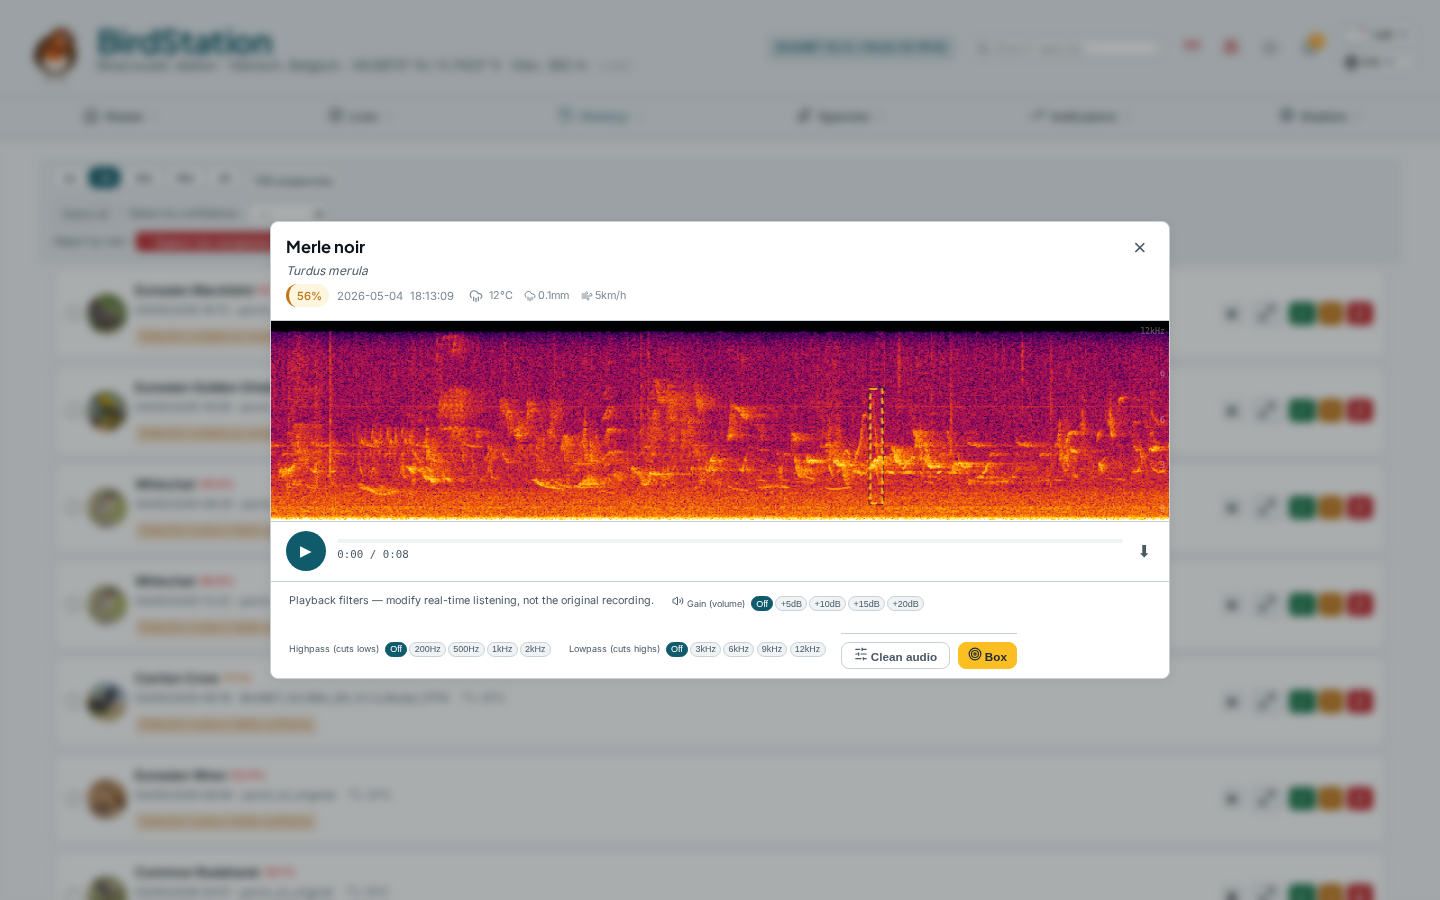
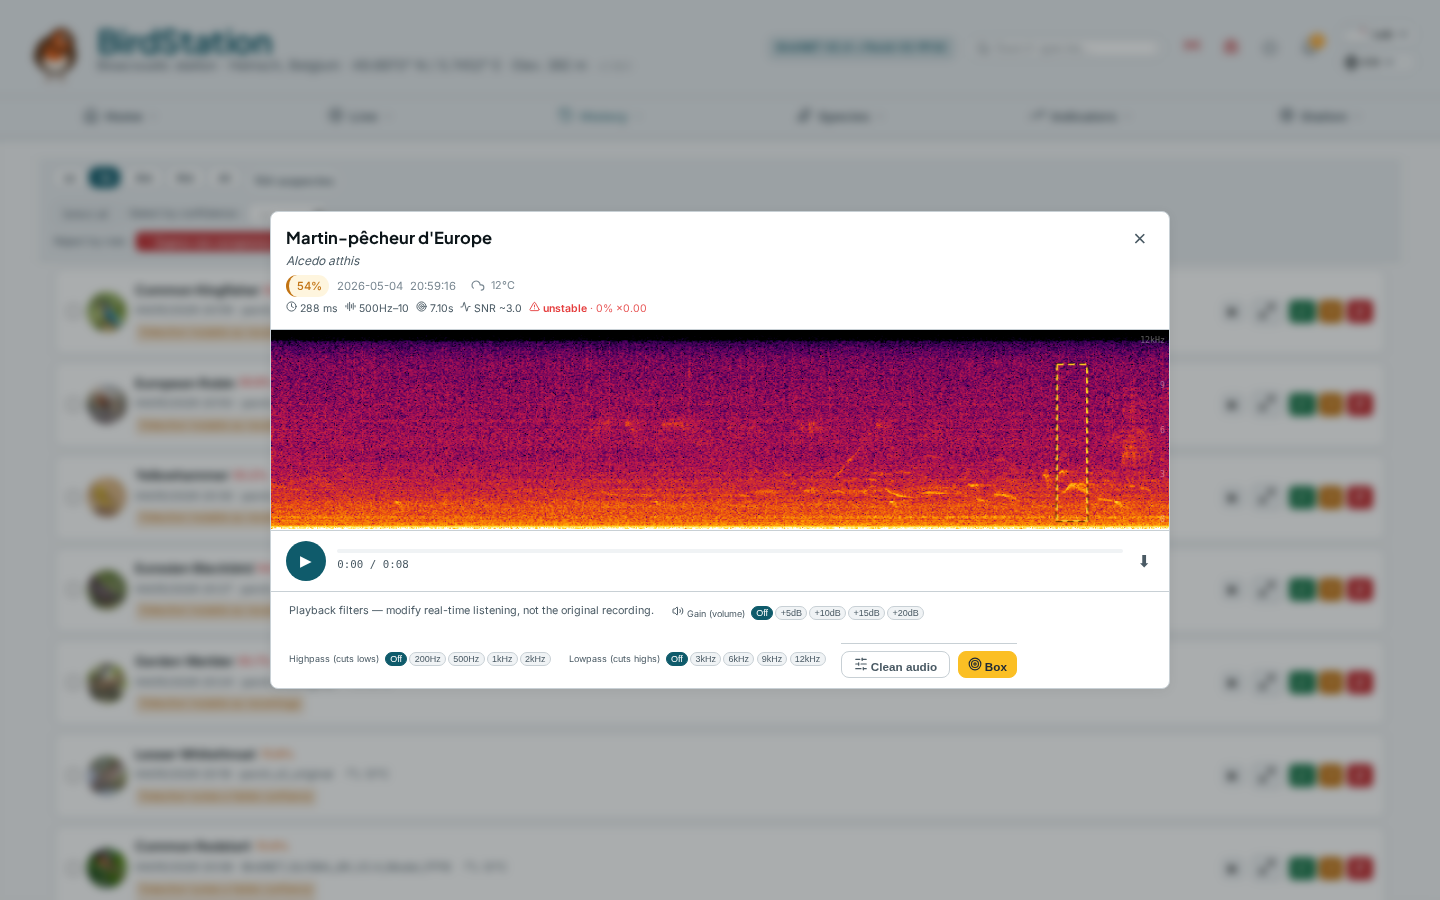
feat(refinement): bbox info bar in modal + stability badges on review cards (1.50.2)
- Spectro modal: chip strip with duration/band/peak/SNR + truncated/stable/
  unstable/inconclusive badges, sourced from a single bbox+stability fetch.
- review.html: orange "truncated" + green "stable" / grey "inconclusive"
  chips next to existing reasons row.
- /api/detections/bbox LEFT JOINs detection_stability_v1; /api/flagged-
  detections rows gain truncated + stability_status fields.
- i18n strings + tooltips fr/en/de/nl.

diff --git a/public/js/bird-spectro-modal.js b/public/js/bird-spectro-modal.js
@@ -57,6 +57,19 @@
       // Switching off re-renders the spectro without the bbox; switching on
       // re-renders, then re-paints the bbox over the fresh pixels.
       const bboxEnabled = ref(U.getBboxOverlayEnabled());
+      // bboxData holds the fetched bbox+stability row (single fetch per modal
+      // open) — used both to paint the overlay and to render the info bar.
+      const bboxData = ref(null);
+
+      function paintBbox() {
+        if (!canvas.value) return;
+        if (bboxEnabled.value && bboxData.value) {
+          U.attachBboxOverlay(canvas.value, bboxData.value,
+            { duration: audioBuf?.duration, maxHz: 12000 });
+        } else {
+          U.attachBboxOverlay(canvas.value, null);
+        }
+      }
       function toggleBbox() {
         bboxEnabled.value = !bboxEnabled.value;
         U.setBboxOverlayEnabled(bboxEnabled.value);
@@ -64,12 +77,35 @@
         // Re-render the current pcmData (which is already cleaned if cleanMode is on)
         // then re-paint or skip the bbox.
         U.renderSpectrogram(pcmData, sampleRate, canvas.value, { fftSize: 1024, maxHz: 12000 });
-        if (bboxEnabled.value) {
-          U.showBboxForFile(canvas.value, modal.fileName, { duration: audioBuf?.duration, maxHz: 12000 });
-        } else {
-          U.attachBboxOverlay(canvas.value, null);
-        }
+        paintBbox();
       }
+
+      // Formatted strings for the info bar — null when no bbox row exists.
+      const bboxMeta = computed(() => {
+        const b = bboxData.value;
+        if (!b) return null;
+        const durMs = Math.round((b.t_max_s - b.t_min_s) * 1000);
+        const fmtKHz = (hz) => hz >= 1000 ? (hz / 1000).toFixed(hz >= 10000 ? 0 : 1) : (hz + 'Hz');
+        const fLo = fmtKHz(b.f_min_hz);
+        const fHi = fmtKHz(b.f_max_hz);
+        const band = (typeof fLo === 'string' && fLo.endsWith('Hz')) || (typeof fHi === 'string' && fHi.endsWith('Hz'))
+          ? `${fLo}–${fHi}`
+          : `${fLo}–${fHi} kHz`;
+        const snr = (b.snr_estimate != null && isFinite(b.snr_estimate))
+          ? b.snr_estimate.toFixed(1) : null;
+        const peak = (b.peak_t_s != null && isFinite(b.peak_t_s))
+          ? b.peak_t_s.toFixed(2) + 's' : null;
+        const stab = b.stability_status || null;
+        const recConf = (b.recentered_confidence != null)
+          ? Math.round(b.recentered_confidence * 100) + '%' : null;
+        const ratio = (b.ratio_to_original != null)
+          ? '×' + b.ratio_to_original.toFixed(2) : null;
+        return {
+          durMs, band, snr, peak,
+          truncated: !!b.truncated,
+          stability: stab, recConf, ratio,
+        };
+      });
 
       // Loop selection
       const loopStart = ref(null); // 0-1 fraction
@@ -144,10 +180,12 @@
           _rawPcm = pcmData;
           _rawSr = sampleRate;
           _rawAudioBuf = audioBuf;
-          // Render spectrogram
+          // Render spectrogram + fetch bbox/stability once — the same row is
+          // reused for both the overlay paint and the info bar.
           if (canvas.value) {
             U.renderSpectrogram(pcmData, sampleRate, canvas.value, { fftSize: 1024, maxHz: 12000 });
-            U.showBboxForFile(canvas.value, modal.fileName, { duration: audioBuf.duration, maxHz: 12000 });
+            bboxData.value = await U.fetchBbox(modal.fileName);
+            paintBbox();
           }
         } catch (e) {
           console.warn('SpectroModal: load error', e);
@@ -343,6 +381,7 @@
         pausedAt = 0;
         filters.gain = 0; filters.highpass = 0; filters.lowpass = 0;
         loopStart.value = null; loopEnd.value = null; loopActive.value = false;
+        bboxData.value = null;
         cancelAnimationFrame(rafId);
       }
 
@@ -359,7 +398,7 @@
           cleanMode.value = false;
           if (_rawPcm && canvas.value) {
             U.renderSpectrogram(_rawPcm, _rawSr, canvas.value, { fftSize: 1024, maxHz: 12000 });
-            U.showBboxForFile(canvas.value, modal.fileName, { duration: audioBuf?.duration, maxHz: 12000 });
+            paintBbox();
           }
           const wasPlaying = isPlaying.value;
           if (wasPlaying) stopPlay();
@@ -379,7 +418,7 @@
           const cleaned = U.cleanAudioPipeline(_rawPcm, _rawSr, cleanStrength.value);
           if (canvas.value) {
             U.renderSpectrogram(cleaned, _rawSr, canvas.value, { fftSize: 1024, maxHz: 12000 });
-            U.showBboxForFile(canvas.value, modal.fileName, { duration: audioBuf?.duration, maxHz: 12000 });
+            paintBbox();
           }
           // Build a new AudioBuffer so playback uses the cleaned signal.
           const tmpCtx = new (window.AudioContext || window.webkitAudioContext)();
@@ -437,7 +476,7 @@
         loopStart, loopEnd, loopActive,
         weather, wmoIcon, wmoLabel,
         cleanMode, cleanStrength, processingClean,
-        bboxEnabled, toggleBbox,
+        bboxEnabled, toggleBbox, bboxMeta,
         togglePlay, seek, setFilter, close, t,
         onCanvasMousedown, onCanvasMousemove, onCanvasMouseup, clearLoop,
         toggleClean, reapplyClean
@@ -465,6 +504,33 @@
             <span v-if="weather.wind_kmh != null && weather.wind_kmh >= 5" class="weather-wind">
               <bird-icon name="wind" :size="12"></bird-icon>{{Math.round(weather.wind_kmh)}}km/h
             </span>
+          </span>
+        </div>
+        <!-- Detection Refinement info bar (Phase 1B + Phase 2) — visible
+             only when a bbox row exists for this clip. -->
+        <div v-if="bboxMeta" class="spectro-modal-bboxinfo"
+             style="display:flex;flex-wrap:wrap;gap:.45rem;margin-top:.25rem;font-size:.7rem;color:var(--text-muted);align-items:center;line-height:1.4;">
+          <span :title="t('bbox_info_duration_tip')"><bird-icon name="clock" :size="11"></bird-icon> {{bboxMeta.durMs}} ms</span>
+          <span :title="t('bbox_info_band_tip')"><bird-icon name="audio-lines" :size="11"></bird-icon> {{bboxMeta.band}}</span>
+          <span v-if="bboxMeta.peak" :title="t('bbox_info_peak_tip')"><bird-icon name="target" :size="11"></bird-icon> {{bboxMeta.peak}}</span>
+          <span v-if="bboxMeta.snr" :title="t('bbox_info_snr_tip')"><bird-icon name="activity" :size="11"></bird-icon> SNR ~{{bboxMeta.snr}}</span>
+          <span v-if="bboxMeta.truncated" :title="t('bbox_info_truncated_tip')"
+                style="color:#dd6b20;font-weight:600;">
+            <bird-icon name="alert-circle" :size="11"></bird-icon> {{t('bbox_info_truncated')}}
+          </span>
+          <span v-if="bboxMeta.stability === 'stable'" :title="t('bbox_info_stable_tip')"
+                style="color:var(--success,#16a34a);font-weight:600;">
+            <bird-icon name="check-circle" :size="11"></bird-icon>
+            {{t('bbox_info_stable')}}<span v-if="bboxMeta.recConf" style="font-weight:400;opacity:.85;"> · {{bboxMeta.recConf}} {{bboxMeta.ratio}}</span>
+          </span>
+          <span v-else-if="bboxMeta.stability === 'unstable'" :title="t('bbox_info_unstable_tip')"
+                style="color:#e53e3e;font-weight:600;">
+            <bird-icon name="alert-triangle" :size="11"></bird-icon>
+            {{t('bbox_info_unstable')}}<span v-if="bboxMeta.recConf" style="font-weight:400;opacity:.85;"> · {{bboxMeta.recConf}} {{bboxMeta.ratio}}</span>
+          </span>
+          <span v-else-if="bboxMeta.stability === 'inconclusive'" :title="t('bbox_info_inconclusive_tip')"
+                style="color:#7a8a9e;">
+            <bird-icon name="help-circle" :size="11"></bird-icon> {{t('bbox_info_inconclusive')}}
           </span>
         </div>
       </div>

diff --git a/server/routes/refinement.js b/server/routes/refinement.js
@@ -1,13 +1,15 @@
 'use strict';
 /**
  * Refinement routes — expose les bbox pré-calculés (Detection Refinement
- * Module, Phase 1A). Lecture seule. La table `detection_bbox_v1` est
- * peuplée hors-ligne par `scripts/refinement/backfill_bbox.py`.
+ * Module, Phase 1A) + le verdict de stabilité (Phase 2).
  *
  * GET /api/detections/bbox?file=<File_Name>
  *   → 200 { file_name, t_min_s, t_max_s, f_min_hz, f_max_hz,
  *            peak_t_s, peak_energy, snr_estimate, truncated,
- *            algorithm_version, created_at }
+ *            algorithm_version, created_at,
+ *            stability_status, recentered_confidence,
+ *            ratio_to_original, stability_inference_ms } — les 4 derniers
+ *            sont null si Phase 2 n'a pas (encore) tourné sur ce clip.
  *   → 404 si pas encore raffiné (le frontend tombe alors en mode "pas
  *         d'overlay" — le spectrogramme reste affiché normalement)
  */
@@ -27,11 +29,16 @@ function handle(req, res, pathname, ctx) {
 
   try {
     const row = db.prepare(`
-      SELECT file_name, t_min_s, t_max_s, f_min_hz, f_max_hz,
-             peak_t_s, peak_energy, snr_estimate, truncated,
-             algorithm_version, created_at
-      FROM detection_bbox_v1
-      WHERE file_name = ?
+      SELECT b.file_name, b.t_min_s, b.t_max_s, b.f_min_hz, b.f_max_hz,
+             b.peak_t_s, b.peak_energy, b.snr_estimate, b.truncated,
+             b.algorithm_version, b.created_at,
+             s.stability_status        AS stability_status,
+             s.recentered_confidence   AS recentered_confidence,
+             s.ratio_to_original       AS ratio_to_original,
+             s.inference_ms            AS stability_inference_ms
+      FROM detection_bbox_v1 b
+      LEFT JOIN detection_stability_v1 s ON s.file_name = b.file_name
+      WHERE b.file_name = ?
     `).get(file);
 
     if (!row) {

diff --git a/server/routes/detections.js b/server/routes/detections.js
@@ -530,11 +530,25 @@ function handle(req, res, pathname, ctx) {
         // Table may not exist yet on installs that never ran the migration —
         // swallow the error so the flagging endpoint stays alive.
         const unstableSet = new Set();
+        const stabilityByFile = new Map();
         try {
-          const unstable = db.prepare(`
-            SELECT file_name FROM detection_stability_v1 WHERE stability_status = 'unstable'
+          const stab = db.prepare(`
+            SELECT file_name, stability_status FROM detection_stability_v1
           `).all();
-          for (const u of unstable) unstableSet.add(u.file_name);
+          for (const s of stab) {
+            stabilityByFile.set(s.file_name, s.stability_status);
+            if (s.stability_status === 'unstable') unstableSet.add(s.file_name);
+          }
+        } catch {}
+
+        // Phase 1: bbox truncated flag — sourced from detection_bbox_v1.
+        // Same defensive load (table may be empty / missing on fresh installs).
+        const truncatedSet = new Set();
+        try {
+          const trunc = db.prepare(`
+            SELECT file_name FROM detection_bbox_v1 WHERE truncated = 1
+          `).all();
+          for (const t of trunc) truncatedSet.add(t.file_name);
         } catch {}
 
         const flagged = [];
@@ -600,6 +614,8 @@ function handle(req, res, pathname, ctx) {
               confidence: det.Confidence, file_name: det.File_Name,
               model: det.Model,
               reasons,
+              truncated: truncatedSet.has(det.File_Name) ? 1 : 0,
+              stability_status: stabilityByFile.get(det.File_Name) || null,
               validation: existing || 'unreviewed',
             });
           }

diff --git a/public/review.html b/public/review.html
@@ -120,8 +120,23 @@
               <span>{{fmtDate(det.date)}} {{det.time.slice(0,5)}} · {{det.model}}</span>
               <weather-chip :date="det.date" :time="det.time"></weather-chip>
             </div>
-            <div style="margin-top:.2rem;">
+            <div style="margin-top:.2rem;display:flex;flex-wrap:wrap;gap:.2rem;align-items:center;">
               <span v-for="r in det.reasons" :key="r" class="rv-badge">{{r}}</span>
+              <span v-if="det.truncated" class="rv-badge"
+                    :title="t('bbox_info_truncated_tip')"
+                    style="background:color-mix(in srgb, #dd6b20 15%, transparent);color:#dd6b20;">
+                <bird-icon name="alert-circle" :size="10" style="vertical-align:-1px;"></bird-icon> {{t('bbox_info_truncated')}}
+              </span>
+              <span v-if="det.stability_status === 'stable'" class="rv-badge"
+                    :title="t('bbox_info_stable_tip')"
+                    style="background:color-mix(in srgb, var(--success,#16a34a) 15%, transparent);color:var(--success,#16a34a);">
+                <bird-icon name="check-circle" :size="10" style="vertical-align:-1px;"></bird-icon> {{t('bbox_info_stable')}}
+              </span>
+              <span v-else-if="det.stability_status === 'inconclusive'" class="rv-badge"
+                    :title="t('bbox_info_inconclusive_tip')"
+                    style="background:color-mix(in srgb, #7a8a9e 15%, transparent);color:#7a8a9e;">
+                <bird-icon name="help-circle" :size="10" style="vertical-align:-1px;"></bird-icon> {{t('bbox_info_inconclusive')}}
+              </span>
             </div>
           </div>
           <button v-if="det.file_name" class="rv-mini" @click="playAudio(det)" :aria-label="playingDet===detKey(det)?'Stop':'Play'">{{playingDet===detKey(det)?'⏹':'▶'}}</button>

diff --git a/CHANGELOG.md b/CHANGELOG.md
@@ -2,6 +2,35 @@
 
 All notable changes to BirdStation are documented here.
 
+## [1.50.2] — 2026-05-04
+
+### Added
+
+- **Bbox technical info bar in the spectrogram modal.** Below the species
+  meta row, a discrete chip strip now surfaces the data already stored in
+  `detection_bbox_v1` + `detection_stability_v1`: duration of the energy
+  window (ms), frequency band (kHz), peak time, estimated SNR, plus
+  colored badges for `truncated` (orange — call extends past clip
+  boundary), `stable` / `unstable` / `inconclusive` (Phase 2 verdict
+  with recentered confidence and ratio). Tooltips on every chip explain
+  the metric in plain language. Fully translated (fr/en/de/nl).
+- **Truncated + stability badges on `review.html` cards.** Next to the
+  existing reasons row, each card now shows an orange `truncated` chip
+  when the bbox flag is set, and a green `stable` / grey `inconclusive`
+  chip when Phase 2 has decided. The `unstable` badge is intentionally
+  not duplicated here — it already appears as the `recentering_unstable`
+  reason. Useful when a detection is flagged for one rule but Phase 2
+  still confirms it (high signal that the bird is real).
+
+### Changed
+
+- `/api/detections/bbox` now LEFT JOINs `detection_stability_v1` so a
+  single fetch from the modal serves both the visual overlay and the
+  info bar (no extra round-trip).
+- `/api/flagged-detections` rows include `truncated` (0/1) and
+  `stability_status` (`stable` / `unstable` / `inconclusive` / `null`)
+  so card-level badges can render without follow-up queries.
+
 ## [1.50.1] — 2026-05-04
 
 ### Fixed